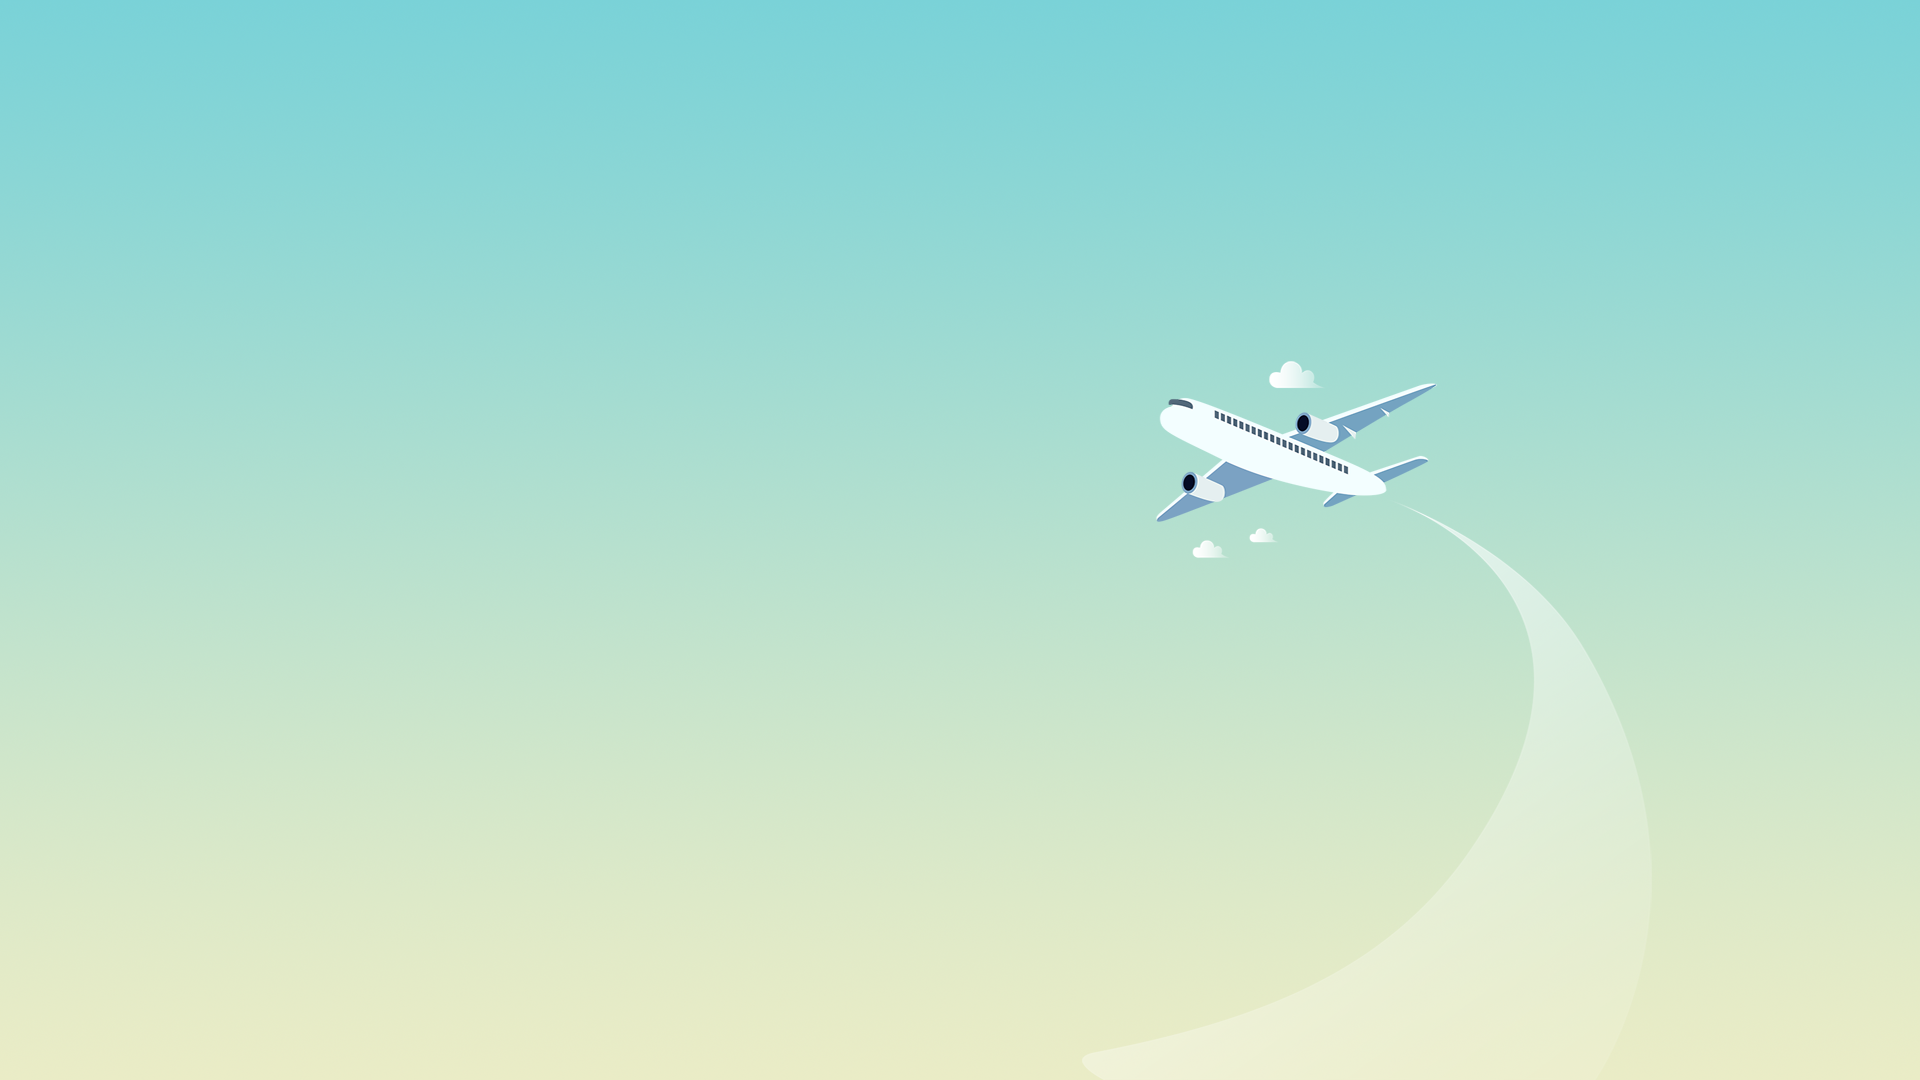
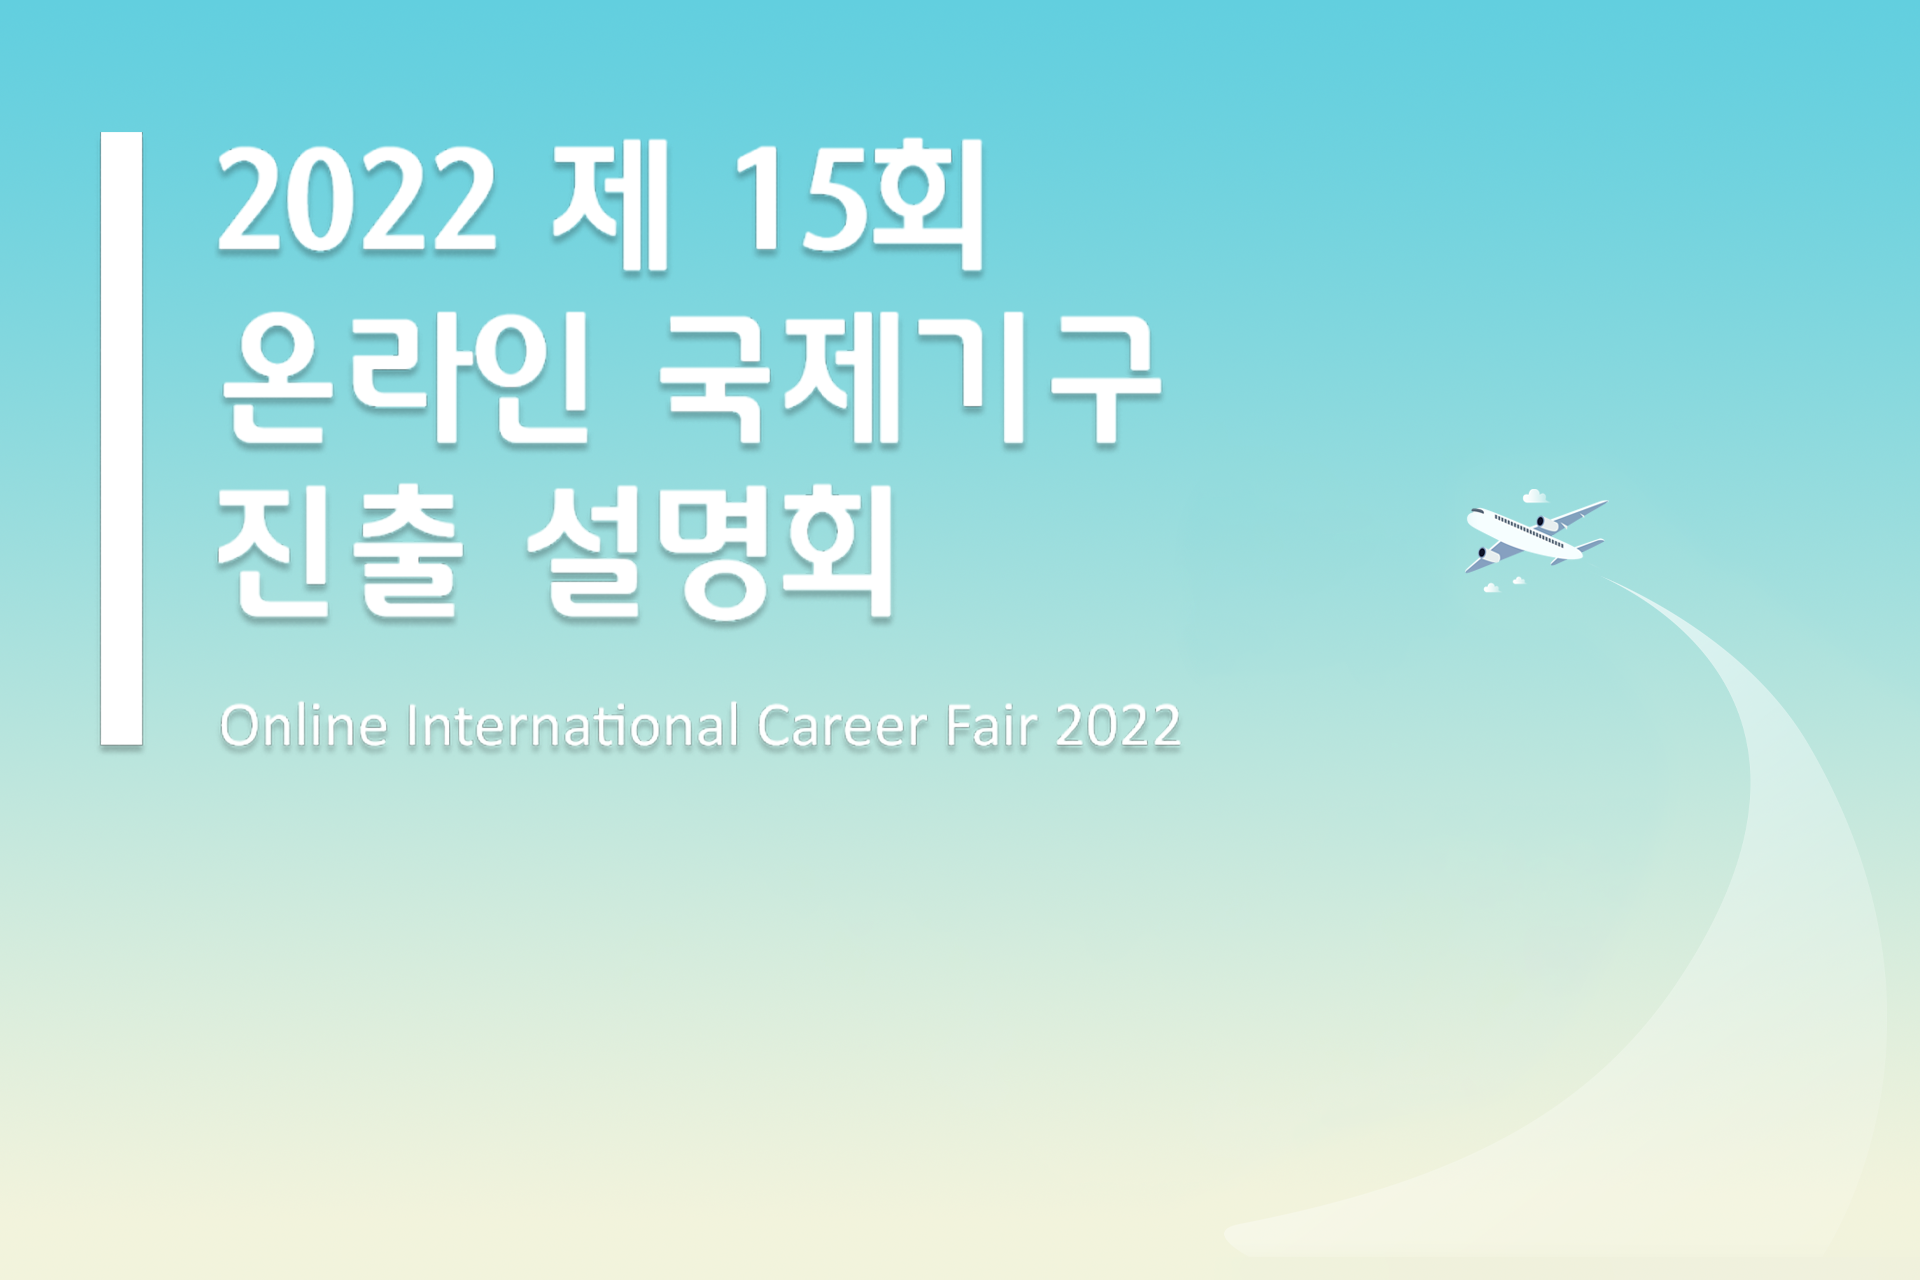
표지 거의 완성

diff --git a/theme/basic/hien/css/hien.css b/theme/basic/hien/css/hien.css
@@ -33,15 +33,83 @@ div#fixedmenu{width:3px; background-color: white;
 }
 #gnb li{
     border-radius:30px;
-    border: 1px solid white;
+    border: 2px solid white;
     background-color:#62CFDF;
     padding:5px 20px;
+    width:155px;
 }
 #gnb li a{
     display:block;
     color:white;
     text-transform: uppercase;
+    font-weight:bold;
+    white-space:nowrap
 }
 #gnb li.on{ background-color: yellow;  }
-#gnb li.on a{ color:black}
+#gnb li.on a{ color:#222}
 
+/* 메인 배너 */
+
+#content h1{
+    font-size:5.5rem;
+    margin-top:-1rem;
+}
+#content .title_wrap{
+    border-left: 1.5rem solid white;
+    margin:.5em; margin-bottom:1rem;
+    padding-left:1.5em;
+    font-size:31px;
+}
+
+#content .first_write{
+    background-image: url(/img/plane.png);
+    background-size: 30vw;
+    background-repeat: no-repeat;
+    background-position-x: right;
+    background-position-y: bottom;
+    margin:0 auto;
+}
+#content .date{
+    padding-bottom: 2.5rem;
+}
+#content .date p{
+    display:block;
+    background-color:yellow;
+    color:rgb(40, 116, 157);
+    font-weight:bold;
+    font-size:23px;
+    border-radius:30px;
+    width:21rem; padding:.4rem;
+    text-align:center;
+}
+#content .title_wrap{
+    transform:translate(0%, -10%);
+}
+#content .date p{
+    transform:translate(16%, -10%);
+}
+#content .row{
+    transform:translate(8%, -10%);
+    white-space: nowrap;
+}
+#content .row img{
+    height: 2rem;
+    padding:.3rem;
+}
+
+/*반응형*/
+/*desktop*/
+@media (min-width:837px){
+    #content .first_write{align-items:center;}
+    
+}
+/*mobile*/
+@media (max-width:837px){
+#content .title_wrap{width:20%; white-space:nowrap}
+#content h1{font-size:54px; margin-top:0}
+#content .title_wrap{font-size:26px}
+#fixedmenu{display:none}
+#content .title_wrap, #content .row, #content .date p{
+    transform:translate(1,0);
+}
+}

diff --git a/theme/basic/head.sub.php b/theme/basic/head.sub.php
@@ -48,6 +48,13 @@ if (G5_IS_MOBILE) {
 if($config['cf_add_meta'])
     echo $config['cf_add_meta'].PHP_EOL;
 ?>
+<!-- favicon -->
+<link rel="icon" href="/img/favi_earth.png">
+<link rel="shortcut icon" type="image/x-icon" href="/img/earth.png" />
+  <link rel="apple-touch-icon" href="/img/earth.png" />
+<link rel="apple-touch-icon-precomposed" href="/img/earth.png">
+<meta name="msapplication-TileImage" content="/img/earth.png" size="270x270" />
+
     <!-- SEO 검색엔진최적화, 미리보기 썸네일 이미지 -->
     <meta name="description" content="외교부 국제기구 온라인 진출 설명회" />
     <link rel="canonical" href="//hienhahm.dothome.co.kr" /> 
@@ -112,13 +119,7 @@ if(!defined('G5_IS_ADMIN'))
 <link rel="stylesheet" href="https://cdn.jsdelivr.net/npm/bootstrap@4.6.1/dist/css/bootstrap.min.css" integrity="sha384-zCbKRCUGaJDkqS1kPbPd7TveP5iyJE0EjAuZQTgFLD2ylzuqKfdKlfG/eSrtxUkn" crossorigin="anonymous">
 <!-- aos css -->
 <link href="https://unpkg.com/aos@2.3.1/dist/aos.css" rel="stylesheet">
-<!-- favicon -->
-<link rel="shortcut icon" type="image/x-icon" href="https://www.cafe24.com/wp-content/themes/cafe24/images/favicon.ico" />
-<link rel="apple-touch-icon" href="https://www.cafe24.com/wp-content/themes/cafe24/images/apple-touch-icon.png" />
-<link rel="apple-touch-icon-precomposed" href="https://www.cafe24.com/wp-content/themes/cafe24/images/apple-touch-icon.png">
-<meta name="msapplication-TileImage" content="https://www.cafe24.com/wp-content/themes/cafe24/images/favicon.png" size="270x270" />
 
-<!-- <link rel="icon" href="/폴더/img/파이콘파일.png"> -->
 </head>
 <body<?php echo isset($g5['body_script']) ? $g5['body_script'] : ''; ?>>
 <?php

diff --git a/theme/basic/skin/latest/first/latest.skin.php b/theme/basic/skin/latest/first/latest.skin.php
@@ -28,11 +28,12 @@ $list_count = (is_array($list) && $list) ? count($list) : 0;
                 <!-- 여기다가 내용 적기 -->
 
     <div id="content" class="backgroundno" style="background-image:url(<?php echo $img; ?>)">
-    <div class="first_write d-flex flex-column justify-content-center align-items-center text-white h-100">
+    <div class="first_write d-flex flex-column justify-content-center text-white h-100">
                  <?php echo $list[$i]['wr_content']; ?>          
         </div>
      </div>
-      
+
+
      <!-- 이 사이 멘트 적기 -->
 
 

diff --git a/head.php b/head.php
@@ -114,7 +114,7 @@ include_once(G5_LIB_PATH.'/popular.lib.php');
         </ul>
     </div>
     
-    <nav id="gnb">
+    <nav id="gnb d-md-flex d-none">
         <h2>메인메뉴</h2>
         <div class="gnb_wrap">
             <ul id="gnb_1dul">
